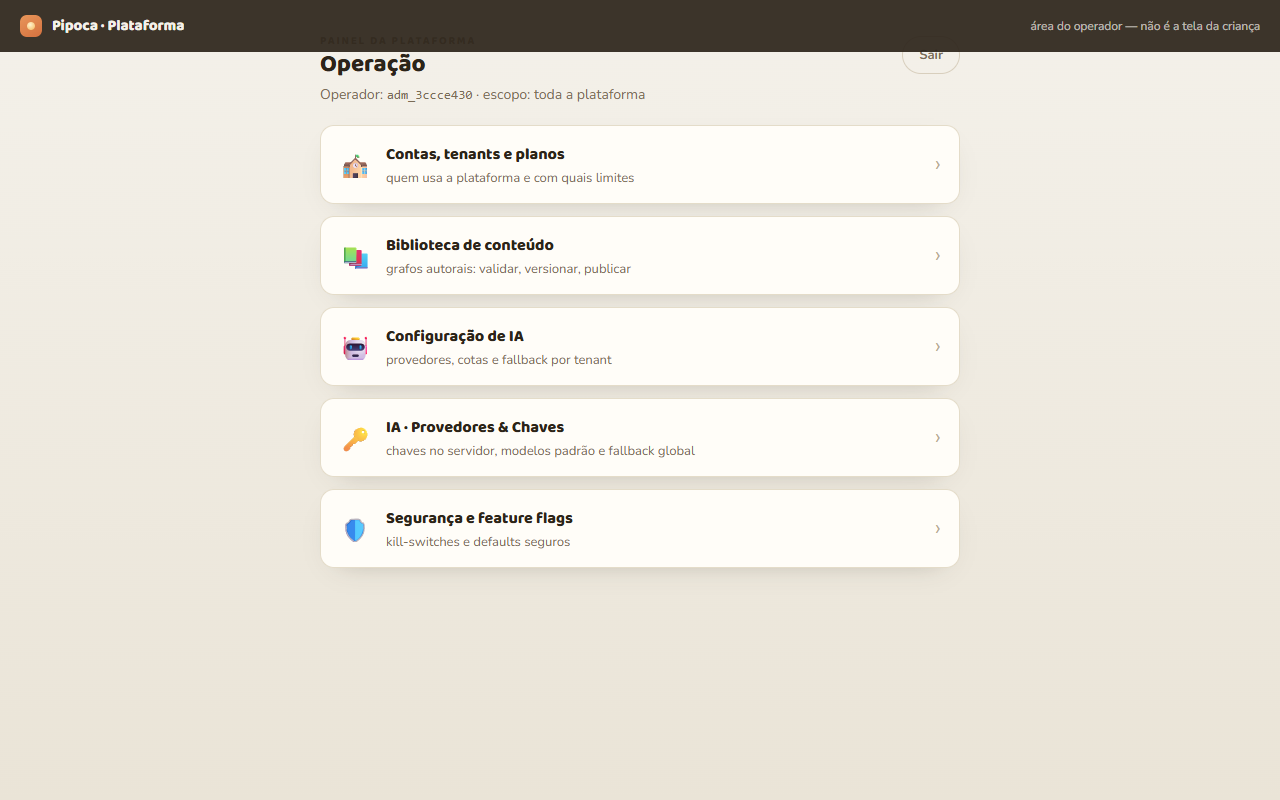
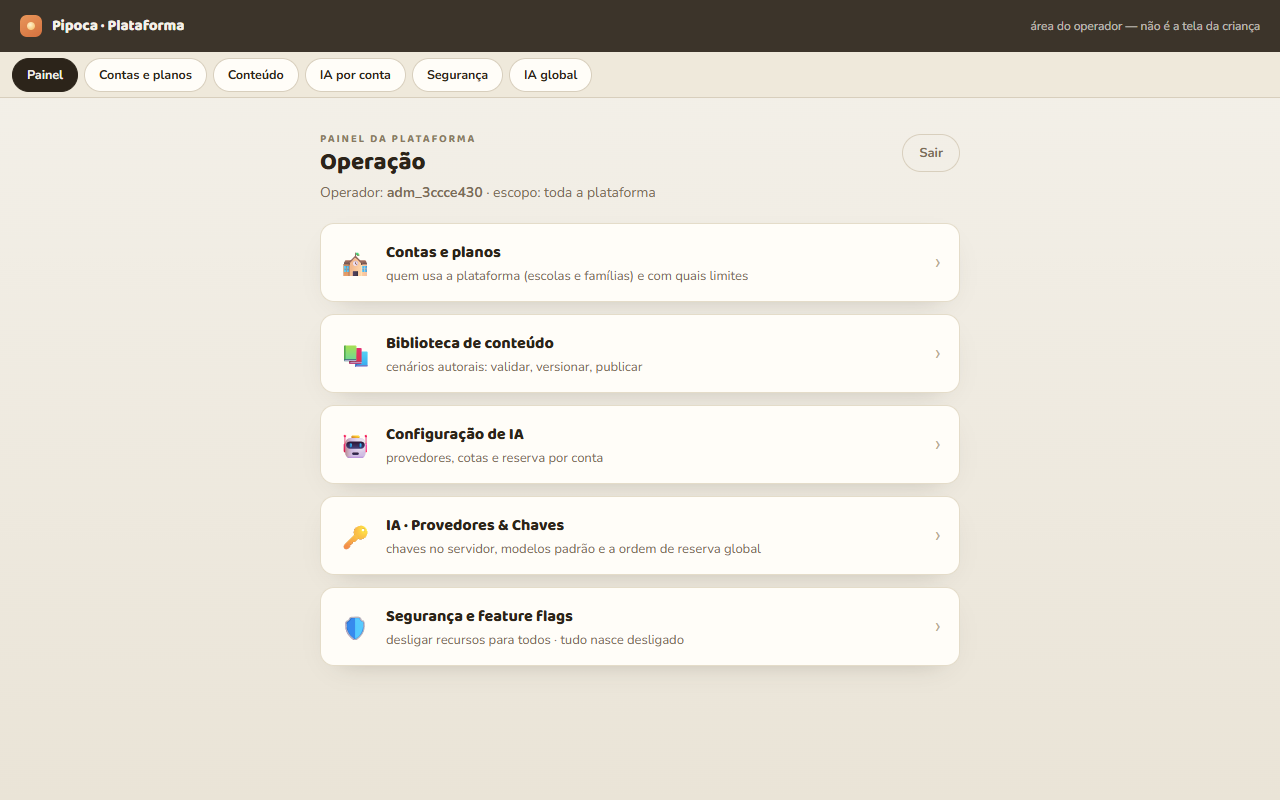
chore(auditoria): screenshots depois atualizados para o B-M3 (admin pos B10/B11)

diff --git a/docs/Plan03/STATUS.md b/docs/Plan03/STATUS.md
@@ -1,9 +1,9 @@
 # STATUS — Plan03 (gerado por `scripts/plan03.mjs`; não editar à mão)
 
-- Gerado em: 2026-09-01T17:00:22.589Z · branch `onda-B-cru-ux` · HEAD `240fab7`
+- Gerado em: 2026-09-01T17:00:52.111Z · branch `onda-B-cru-ux` · HEAD `538d010`
 - Progresso: **23/59** passos concluídos
-- Próximo passo: **B-M3** — Merge da trilha admin em 28_08_26 (vai ao ar)
-- Última verificação: ✅ verde em 2026-09-01T16:45:27.054Z (tsc:✓ unit:✓ e2e:reordenar:✓ e2e:linha-verde:✓ e2e:admin:✓ e2e:geracao2:✓)
+- Próximo passo: nenhum disponível
+- Última verificação: ✅ verde em 2026-09-01T17:00:24.900Z (tsc:✓ unit:✓ e2e:reordenar:✓ e2e:linha-verde:✓ e2e:admin:✓ e2e:geracao2:✓)
 - Alertas: 
   - ⚠ árvore suja (2 arquivo(s)) — commite antes de concluir um passo
   - ⚠ pipoca.admin.bundle.js é mais antigo que src/core, src/backend, src/servicos, src/admin, src/dados (rebuild pendente)
@@ -45,7 +45,7 @@
 | B-M2 | Merge da trilha navegação+mecânica em 28_08_26 (vai ao ar) | [✓] concluída | 2026-09-01 | `c2e6444` |
 | B10 | [Admin: overlap da barra, rota /admin, allowlist](onda-B-cru-ux/B10-admin-shell-rota-assets.md) | [✓] concluída | 2026-09-01 | `1876668` |
 | B11 | [Admin: controles, navegação, vocabulário, erros](onda-B-cru-ux/B11-admin-controles-e-copy.md) | [✓] concluída | 2026-09-01 | `240fab7` |
-| B-M3 | Merge da trilha admin em 28_08_26 (vai ao ar) | [ ] pendente |  |  |
+| B-M3 | Merge da trilha admin em 28_08_26 (vai ao ar) | […] em andamento | 2026-09-01 |  |
 
 ## Onda C — Bundle do app: histórias, avatars, cuidador · 0/13 · branch `onda-C-bundle-app` · BUNDLE app (+ admin)
 

diff --git a/docs/auditorias/screenshots/depois/INDEX.md b/docs/auditorias/screenshots/depois/INDEX.md
@@ -41,17 +41,17 @@ Só os essenciais (T2, T3, T4, T5, T7, adm2) são commitados; os demais ficam lo
 | T16-conta-390x844.png | 107 |  |
 | T09-login-1280x800.png | 230 | 2 |
 | T09-login-390x844.png | 100 |  |
-| adm1-login-1280x800.png | 48 | 1 |
-| adm1-login-390x844.png | 39 |  |
-| adm2-home-1280x800.png | 78 | 1 |
-| adm2-home-390x844.png | 70 |  |
-| adm3-tenants-1280x800.png | 64 | 6 |
-| adm3-tenants-390x844.png | 59 |  |
-| adm4-conteudo-1280x800.png | 64 | 4 |
-| adm4-conteudo-390x844.png | 54 |  |
-| adm5-config-ia-1280x800.png | 83 | 14 |
-| adm5-config-ia-390x844.png | 74 |  |
-| adm6-seguranca-1280x800.png | 95 | 10 |
-| adm6-seguranca-390x844.png | 90 |  |
-| adm7-ia-global-1280x800.png | 121 | 29 |
-| adm7-ia-global-390x844.png | 90 |  |
+| adm1-login-1280x800.png | 47 | 1 |
+| adm1-login-390x844.png | 37 |  |
+| adm2-home-1280x800.png | 88 | 7 |
+| adm2-home-390x844.png | 79 |  |
+| adm3-tenants-1280x800.png | 77 | 12 |
+| adm3-tenants-390x844.png | 71 |  |
+| adm4-conteudo-1280x800.png | 73 | 10 |
+| adm4-conteudo-390x844.png | 62 |  |
+| adm5-config-ia-1280x800.png | 101 | 20 |
+| adm5-config-ia-390x844.png | 91 |  |
+| adm6-seguranca-1280x800.png | 117 | 16 |
+| adm6-seguranca-390x844.png | 88 |  |
+| adm7-ia-global-1280x800.png | 120 | 35 |
+| adm7-ia-global-390x844.png | 87 |  |
